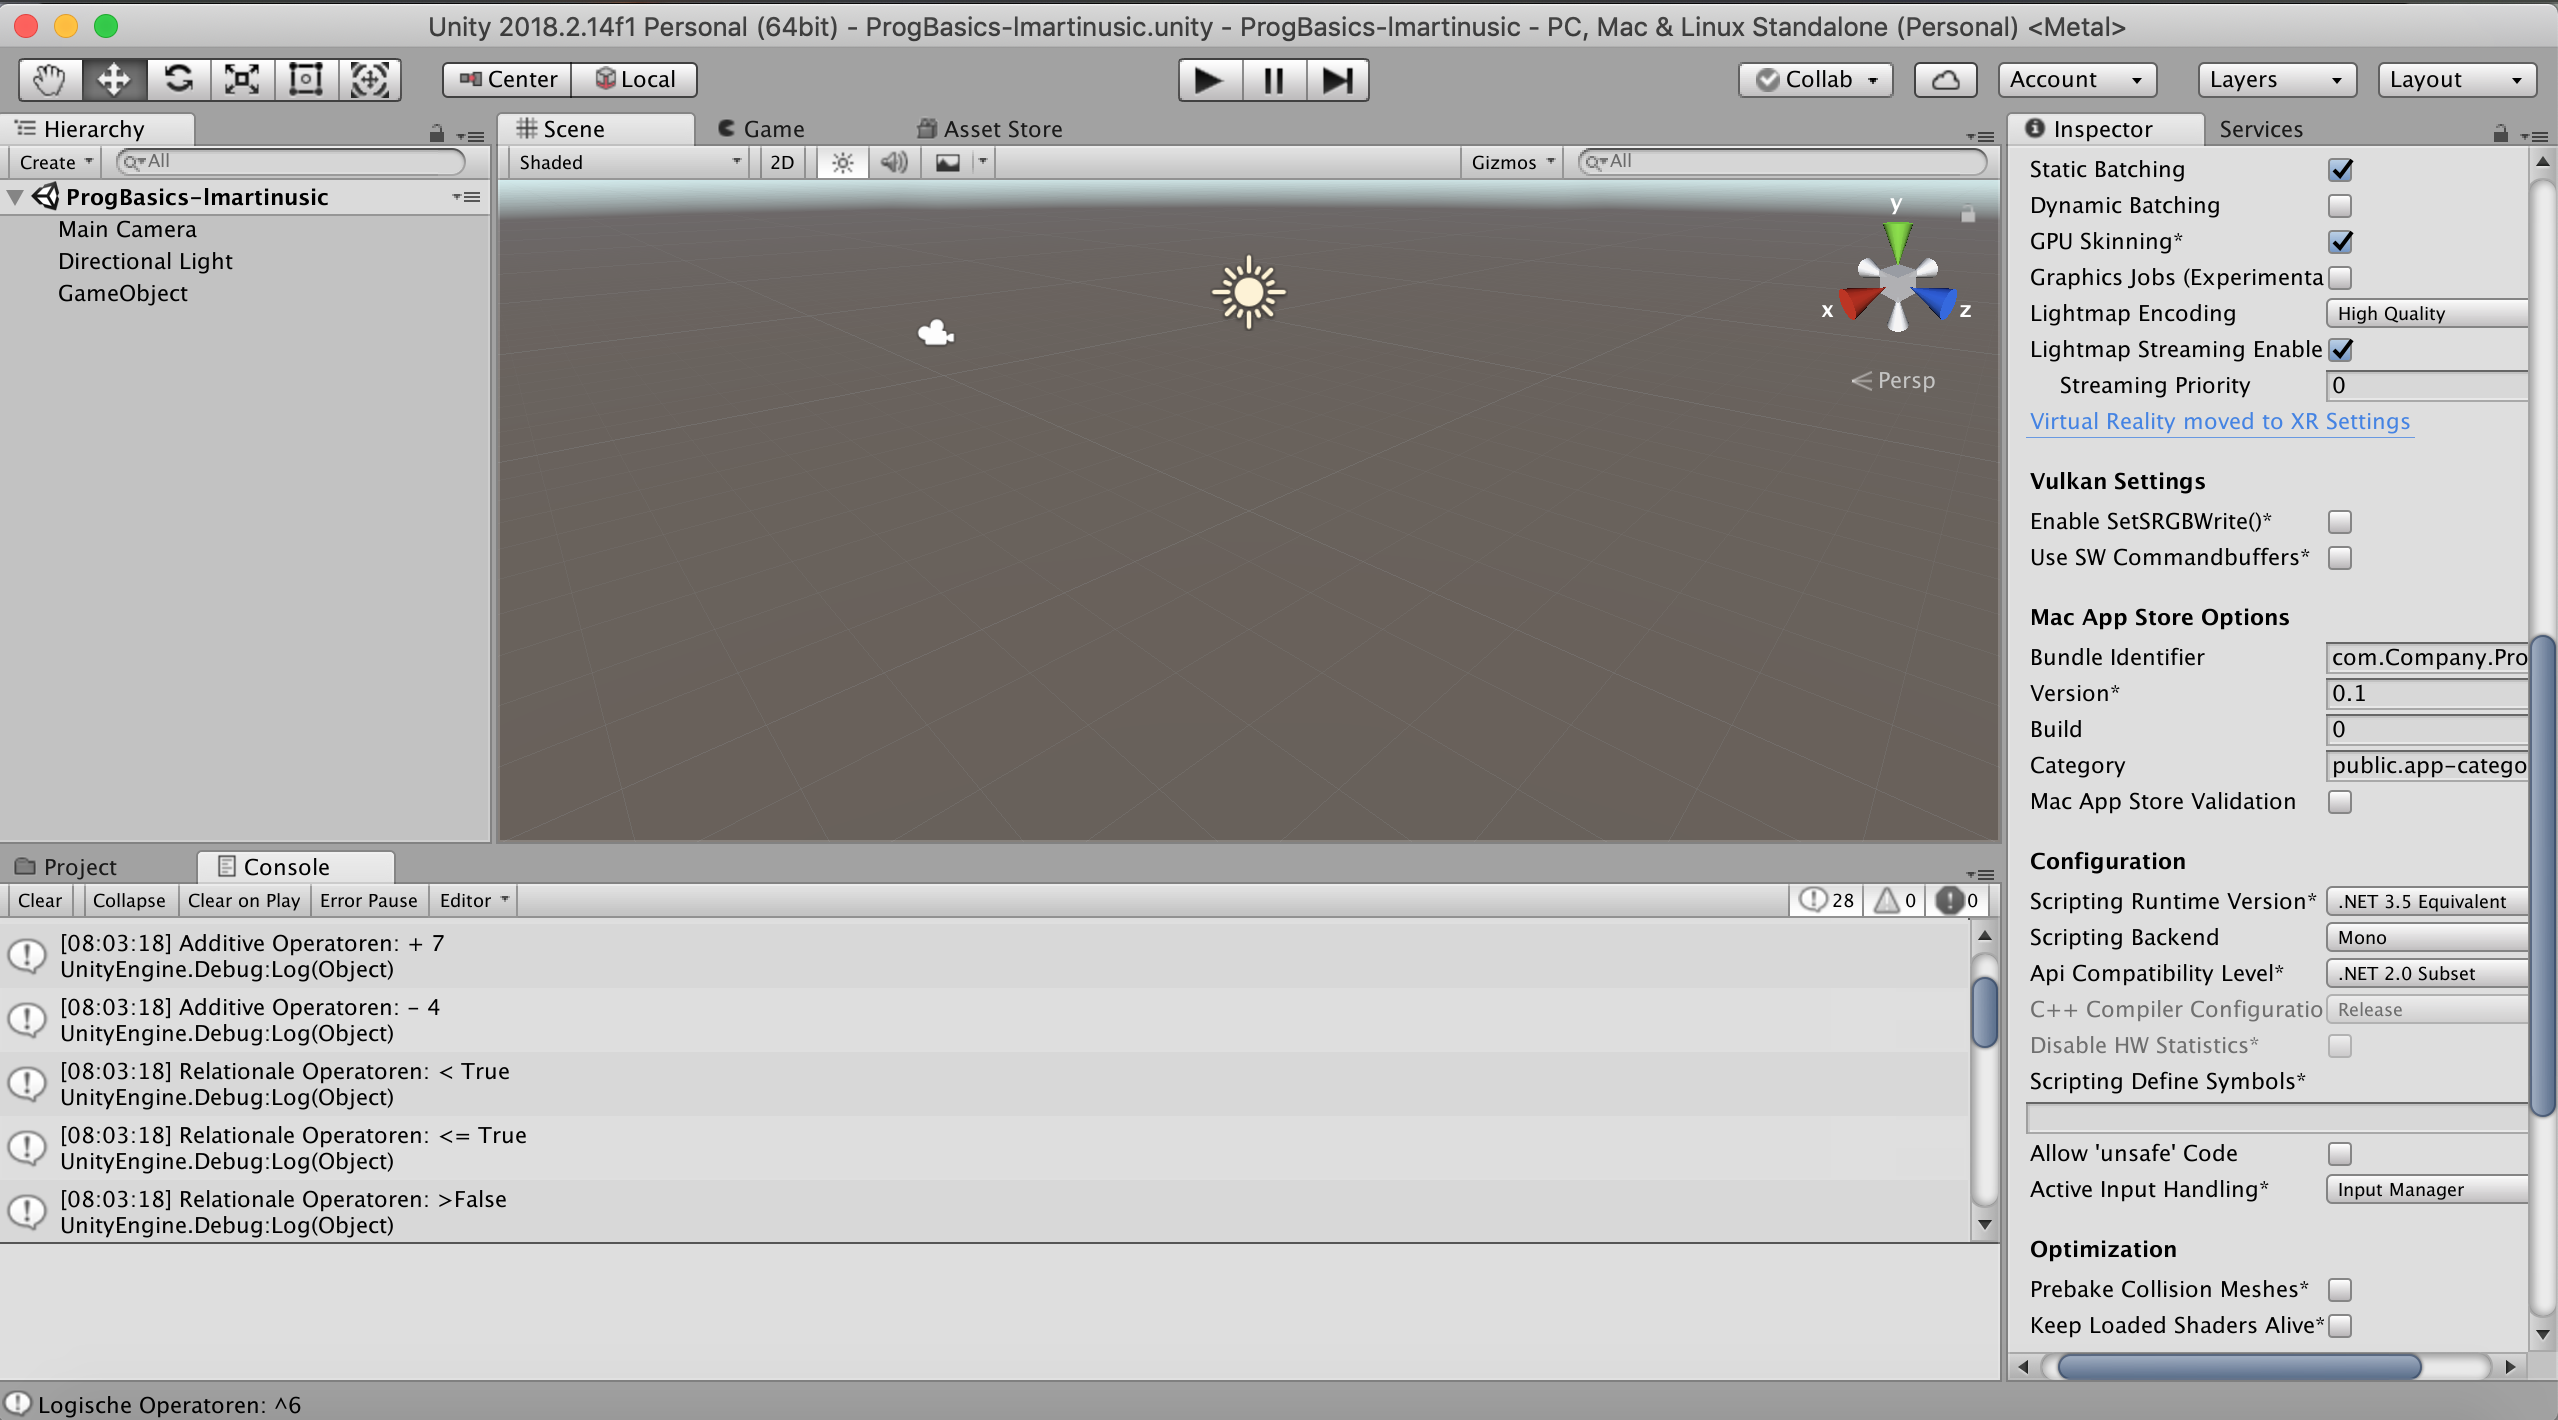
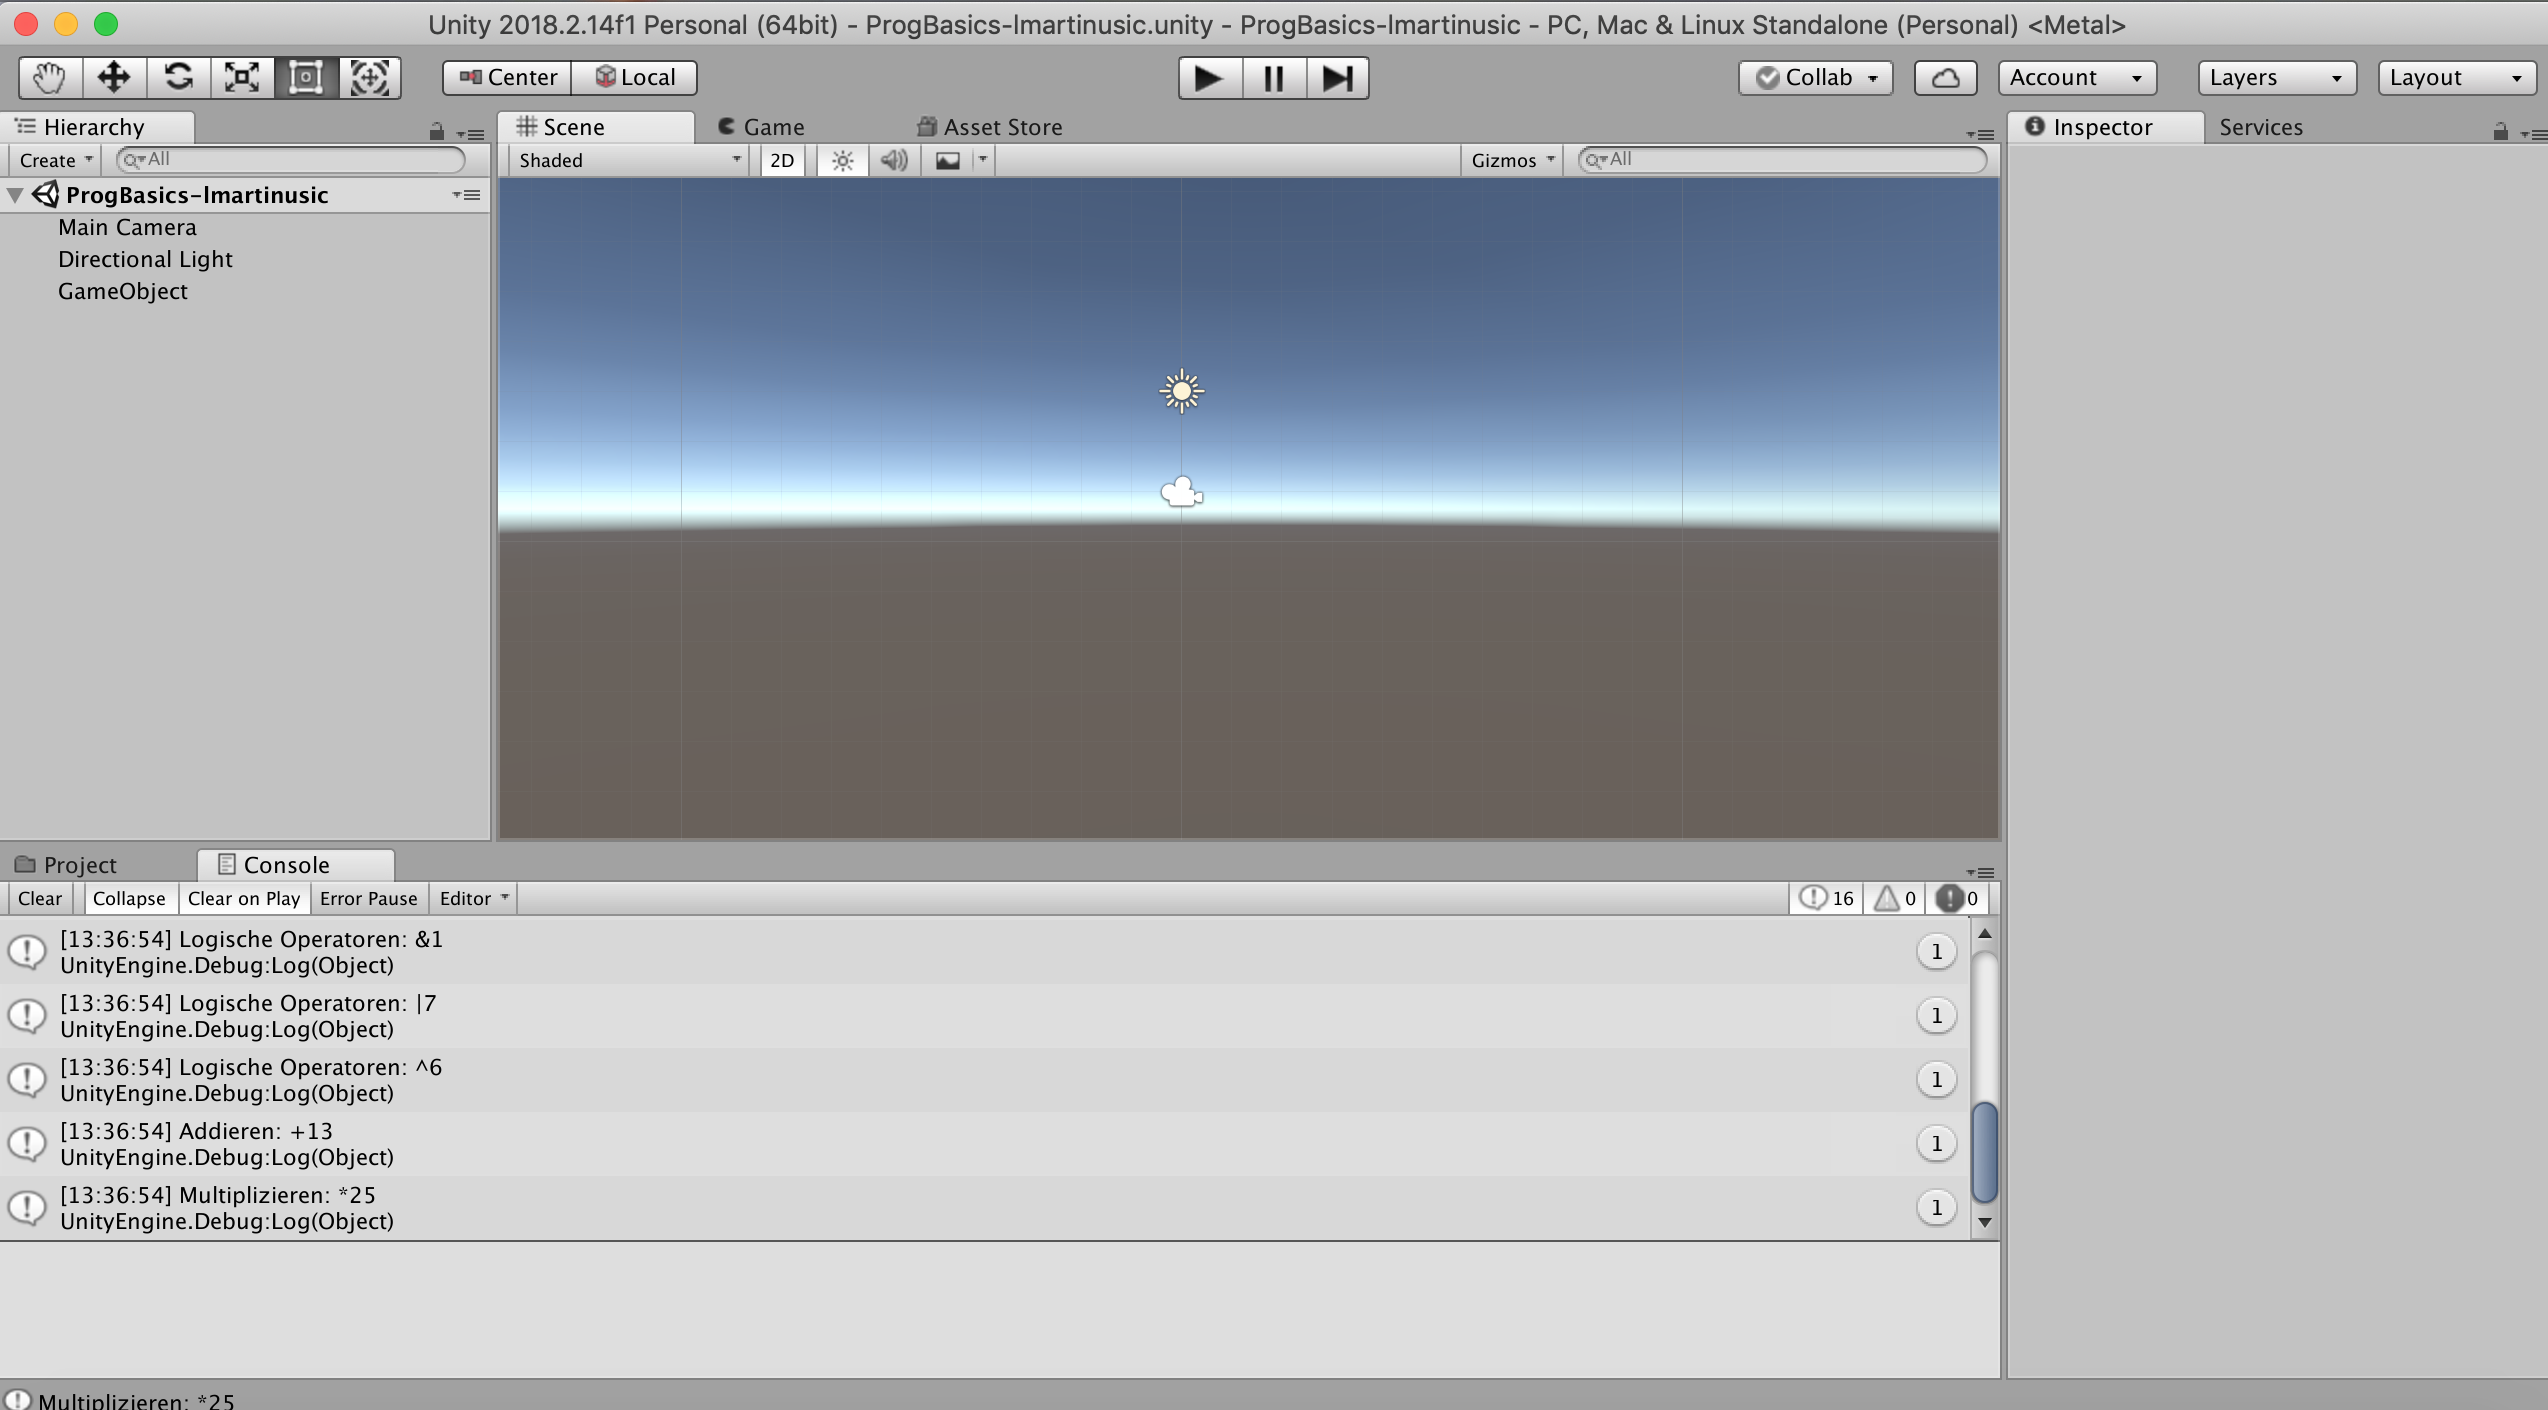
tried different void methods

diff --git a/Assets/Script/ProgBasics.cs b/Assets/Script/ProgBasics.cs
@@ -2,10 +2,19 @@
 using System.Collections.Generic;
 using UnityEngine;
 
-public class ProgBasics : MonoBehaviour {
+public class ProgBasics : MonoBehaviour 
+{
 
 	// Use this for initialization
-	void Start () {
+	void Start () 
+	{
+		Operators();
+		hello();
+		bye();
+	}
+
+	public void Operators()
+	{
 
 		// Multiplikative Operatoren
 		Debug.Log("Multiplikative Operatoren: * " + (3*4));
@@ -32,10 +41,28 @@ public class ProgBasics : MonoBehaviour {
 		Debug.Log("Logische Operatoren: ^" + (3^5));
 
 
+		
+	}
+
+	public void XY()
+	{
+		
+	}
+
+	public void hello()
+	{
+		Debug.Log("Addieren: +" + (8+5));
+	}
+
+	
+	public void bye()
+	{
+		Debug.Log("Multiplizieren: *" + (5*5));
 	}
 	
 	// Update is called once per frame
-	void Update () {
+	void Update () 
+	{
 		
 	}
 }
